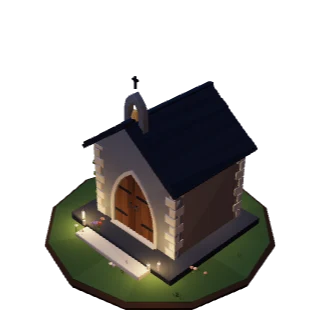
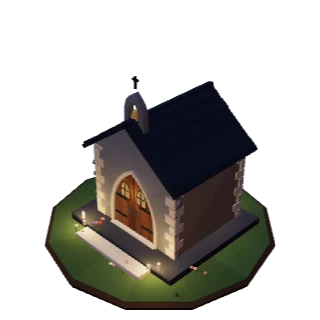
Santuario con le vetrate; cripte a due facce dove aperte; anteprima della versione posata
- Santuario: una vetrata a sesto acuto nella parte alta di ogni battente,
  accesa con le luci (di sera si vede la luce dentro), con i piombi.
- Cripte: le superfici aperte (spicchi del tetto ottagonale, vasca della
  cripta dei fantasmi rotta, anelli e tori a metà) hanno anche il rovescio,
  come faceva il laboratorio: i materiali del gioco hanno una faccia sola.
- Anteprime per versione: bake-previews accetta «<id>-v<N>» e, a giro
  completo, cuoce le versioni degli oggetti a più versioni; la scheda di
  un oggetto posato mostra la sua versione.

Claude-Session: https://claude.ai/code/session_01U6u5RojYrwYjZd8sSRU7em

Changed region(s): [[0.3438, 0.5312, 0.4688, 0.7188], [0.4688, 0.7188, 0.5, 0.75]]

diff --git a/Production/src/render/lowpoly/extras.ts b/Production/src/render/lowpoly/extras.ts
@@ -151,7 +151,7 @@ export function candleTreeLP(v: PVis): LPModel {
  * (largo `w`, alto `h`): assi verticali di tono diverso con le fughe scure tra l'una e
  * l'altra, cerniere in ferro solo sui bordi esterni e due anelli al centro.
  */
-function shrineDoor(lp: LP, z: number, w: number, h: number) {
+function shrineDoor(lp: LP, z: number, w: number, h: number, lit: boolean) {
   const hw = w / 2, R = w, spring = h - Math.sqrt(R * R - (R - hw) * (R - hw));
   const top = (x: number) => spring + Math.sqrt(Math.max(0, R * R - (Math.abs(x) - (hw - R)) ** 2));
   // fondo scuro (le fughe) e le assi sopra, rifilate sotto la curva dell'arco
@@ -168,16 +168,26 @@ function shrineDoor(lp: LP, z: number, w: number, h: number) {
   // cerniere: bandelle dai bordi verso il centro, con la punta arrotondata
   // mezza larghezza dell'arco all'altezza y (sopra l'imposta la curva stringe)
   const half = (y: number) => (y <= spring ? hw : hw - R + Math.sqrt(Math.max(0, R * R - (y - spring) ** 2)));
-  for (const y of [0.28, 0.8]) for (const sx of [-1, 1]) {
+  for (const y of [0.24, 0.62]) for (const sx of [-1, 1]) {
     const edge = Math.min(half(y), half(y + 0.045)) - 0.025, len = 0.28;
     lp.box(sx * (edge - len / 2), y, z + 0.047, len, 0.045, 0.012, LPC.iron, { jitter: 0, ao: 0 });
     lp.blob(sx * (edge - len), y + 0.022, z + 0.05, 0.03, 0.03, 0.012, LPC.iron, { jitter: 0 });
   }
   // due anelli ai lati della fuga centrale, con la piastrina
   for (const sx of [-1, 1]) {
-    lp.blob(sx * 0.07, 0.62, z + 0.05, 0.025, 0.025, 0.01, LPC.iron, { jitter: 0 });
-    lp.add(new THREE.TorusGeometry(0.045, 0.009, 3, 8).translate(sx * 0.07, 0.575, z + 0.058), LPC.ironLight, { jitter: 0 });
+    lp.blob(sx * 0.07, 0.5, z + 0.05, 0.025, 0.025, 0.01, LPC.iron, { jitter: 0 });
+    lp.add(new THREE.TorusGeometry(0.045, 0.009, 3, 8).translate(sx * 0.07, 0.455, z + 0.058), LPC.ironLight, { jitter: 0 });
   }
+  // una vetrata a sesto acuto nella parte alta di ogni battente: di sera si vede la luce delle candele
+  const gw = 0.2, gh = 0.3, g0 = 0.7;
+  for (const sx of [-1, 1]) {
+    const x = sx * 0.19;
+    lp.push([x, 0, z + 0.046]).plate(gothicArchShape(gw + 0.06, gh + 0.05, 4, g0 - 0.03), 0.008, '#3a2a20', { ao: 0 }).pop();
+    lp.push([x, 0, z + 0.054]).plate(gothicArchShape(gw, gh, 4, g0), 0.006, lit ? '#f0b866' : '#3b3631', { bucket: lit ? 'glow' : 'solid', ao: 0, vary: 0.06 }).pop();
+    lp.box(x, g0, z + 0.062, 0.016, gh * 0.92, 0.008, LPC.iron, { jitter: 0, ao: 0 });
+    lp.box(x, g0 + gh * 0.45, z + 0.062, gw, 0.016, 0.008, LPC.iron, { jitter: 0, ao: 0 });
+  }
+  if (lit) lp.light(0, g0 + gh * 0.4, z + 0.2, '#f0b866', 0.25, 2, 0.3, 0.4);
   // soglia in pietra
   lp.box(0, 0, z + 0.06, w + 0.08, 0.035, 0.14, LPC.stoneLight, { bevel: 0.01 });
 }
@@ -203,7 +213,7 @@ export function shrineLP(v: PVis): LPModel {
   front.holes.push(new THREE.Path(hole.getPoints().reverse()));
   lp.push([0, 0, D / 2 - 0.08]).extrude(front, 0.16, LPC.stone, { bevel: 0.012, vary: 0.05, ...o }).pop();
   lp.push([0, 0, D / 2 + 0.005]).plate((() => { const f = gothicArchShape(1.12, 1.33, 5); f.holes.push(new THREE.Path(gothicArchShape(1.0, 1.25, 5).getPoints().reverse())); return f; })(), 0.03, LPC.stoneLight, { ao: 0 }).pop();
-  shrineDoor(lp, D / 2 - 0.08 + 0.03, 1.0, 1.25);
+  shrineDoor(lp, D / 2 - 0.08 + 0.03, 1.0, 1.25, lit);
   // interno: altare, icona illuminata, candele
   lp.box(0, 0, -0.35, 0.8, 0.5, 0.35, LPC.marble, { bevel: 0.015 });
   lp.box(0, 0.5, -0.35, 0.86, 0.04, 0.4, LPC.stoneLight, { bevel: 0.008 });

diff --git a/Production/src/render/lowpoly/cryptKit.ts b/Production/src/render/lowpoly/cryptKit.ts
@@ -38,8 +38,31 @@ export const CP = {
 const _a = new THREE.Vector3(), _b = new THREE.Vector3(), _d = new THREE.Vector3();
 const UP = new THREE.Vector3(0, 1, 0);
 
-/** Aggiunge una geometria ruotata (X, poi Y, poi Z) e portata in `p`. */
-export function put(lp: LP, geo: THREE.BufferGeometry, color: string, p: P3 = [0, 0, 0], rot: P3 = [0, 0, 0], o: LPOpts = {}) {
+/**
+ * Superficie aperta (spicchi di cono, tornito tagliato) vista da entrambi i lati: i
+ * materiali del gioco disegnano una faccia sola, quindi si aggiunge la copia con i
+ * triangoli rovesciati. Le forme chiuse non ne hanno bisogno.
+ */
+export function twoSided(geo: THREE.BufferGeometry): THREE.BufferGeometry {
+  const g = geo.index ? geo.toNonIndexed() : geo;
+  const p = g.getAttribute('position').array as Float32Array;
+  const out = new Float32Array(p.length * 2);
+  out.set(p);
+  for (let i = 0; i < p.length; i += 9) {
+    out.set(p.subarray(i, i + 3), p.length + i);
+    out.set(p.subarray(i + 6, i + 9), p.length + i + 3);
+    out.set(p.subarray(i + 3, i + 6), p.length + i + 6);
+  }
+  const both = new THREE.BufferGeometry();
+  both.setAttribute('position', new THREE.BufferAttribute(out, 3));
+  if (g !== geo) g.dispose();
+  geo.dispose();
+  return both;
+}
+
+/** Aggiunge una geometria ruotata (X, poi Y, poi Z) e portata in `p`; `open`: superficie aperta, a due facce. */
+export function put(lp: LP, geo: THREE.BufferGeometry, color: string, p: P3 = [0, 0, 0], rot: P3 = [0, 0, 0], o: LPOpts = {}, open = false) {
+  if (open) geo = twoSided(geo);
   if (rot[0]) geo.rotateX(rot[0]);
   if (rot[1]) geo.rotateY(rot[1]);
   if (rot[2]) geo.rotateZ(rot[2]);
@@ -80,15 +103,14 @@ export function prof(lp: LP, pts: Array<[number, number]>, depth: number, color:
 }
 
 export function torus(lp: LP, x: number, y: number, z: number, r: number, t: number, color: string, rot: P3 = [0, 0, 0], arc = Math.PI * 2, o: LPOpts = {}) {
-  return put(lp, new THREE.TorusGeometry(r, t, 3, r < 0.12 ? 8 : r < 0.35 ? 10 : 14, arc), color, [x, y, z], rot, o);
+  return put(lp, new THREE.TorusGeometry(r, t, 3, r < 0.12 ? 8 : r < 0.35 ? 10 : 14, arc), color, [x, y, z], rot, o, arc < Math.PI * 2);
 }
 
 /** Anello piatto a terra (o parte di anello): un piccolo tubo di sezione rettangolare. */
 export function groundRing(lp: LP, x: number, y: number, z: number, r: number, width: number, color: string, seg = 12, arc = Math.PI * 2, o: LPOpts = {}) {
   const r0 = Math.max(0.001, r - width / 2), r1 = r + width / 2, h = 0.012;
   const g = new THREE.LatheGeometry([[r0, 0], [r1, 0], [r1, h], [r0, h], [r0, 0]].map(([a, b]) => new THREE.Vector2(a, b)), seg, 0, arc);
-  g.translate(x, y, z);
-  return lp.add(g, color, { jitter: 0, ao: 0, ...o });
+  return put(lp, g, color, [x, y, z], [0, 0, 0], { jitter: 0, ao: 0, ...o }, arc < Math.PI * 2);
 }
 
 /** Stoffa appesa o distesa: tre strisce sottili sfalsate, perché si veda piegata. */

diff --git a/Production/src/render/lowpoly/cryptYards.ts b/Production/src/render/lowpoly/cryptYards.ts
@@ -102,7 +102,7 @@ function ghostYard(c: CryptCtx) {
   const { lp, v } = c;
   const x = -0.56, z = 1.16;
   const arc = v.broken ? Math.PI * 1.75 : Math.PI * 2;
-  put(lp, new THREE.LatheGeometry([[0, 0.015], [0.54, 0.015], [0.64, 0.07], [0.66, 0.19], [0.57, 0.22], [0.53, 0.11], [0, 0.11]].map(([a, b]) => new THREE.Vector2(a, b)), 16, 0, arc), '#a8b4a0', [x, 0.01, z], [0, 0, 0], { vary: 0.06, ao: 0.2 });
+  put(lp, new THREE.LatheGeometry([[0, 0.015], [0.54, 0.015], [0.64, 0.07], [0.66, 0.19], [0.57, 0.22], [0.53, 0.11], [0, 0.11]].map(([a, b]) => new THREE.Vector2(a, b)), 16, 0, arc), '#a8b4a0', [x, 0.01, z], [0, 0, 0], { vary: 0.06, ao: 0.2 }, v.broken);
   const pool = emit(c, v.broken ? '#4a554b' : '#719f96');
   lp.cyl(x, v.broken ? 0.06 : 0.13, z, 0.535, 0.535, 0.012, 16, pool.color, { ...pool.o, jitter: 0 });
   if (!v.broken) { const r = emit(c, '#a0c6b5'); groundRing(lp, x, 0.14, z, 0.24, 0.014, r.color, 12, Math.PI * 1.75, r.o); flame(c, x - 0.13, 0.26, z + 0.08, '#afd7c7', 0.026); }

diff --git a/Production/src/render/lowpoly/cryptBuildings.ts b/Production/src/render/lowpoly/cryptBuildings.ts
@@ -383,7 +383,7 @@ function supernatural(c: CryptCtx) {
     for (let i = 0; i < 8; i++) {
       if (v.broken && i < 2) continue;
       const a = (i / 8) * Math.PI * 2;
-      put(lp, new THREE.CylinderGeometry(0.15, 1.06, 0.83, 1, 1, true, a, Math.PI / 4), facets[i % 4], [0, 1.805, -0.35], [0, 0, 0], { vary: 0.03, jitter: 0.008 });
+      put(lp, new THREE.CylinderGeometry(0.15, 1.06, 0.83, 1, 1, true, a, Math.PI / 4), facets[i % 4], [0, 1.805, -0.35], [0, 0, 0], { vary: 0.03, jitter: 0.008 }, true);
       const p: P3 = [Math.sin(a) * 1.07, 1.39, -0.35 + Math.cos(a) * 1.07], q: P3 = [Math.sin(a + Math.PI / 4) * 1.07, 1.39, -0.35 + Math.cos(a + Math.PI / 4) * 1.07];
       beam(lp, p, q, 0.027, '#9a849e');
       beam(lp, [Math.sin(a) * 0.15, 2.22, -0.35 + Math.cos(a) * 0.15], p, 0.016, '#93809d');

diff --git a/Production/src/ui/screens.ts b/Production/src/ui/screens.ts
@@ -41,7 +41,8 @@ import { clearLang, currentLang, deviceLang, hasManualLang, languagePreference, 
  * altrimenti la miniatura disegnata al momento.
  */
 function itemImg(type: string, cls: 'lit' | 'lit-hero', variant = 0): HTMLElement {
-  const url = previewUrl(type);
+  // gli oggetti a più versioni (le cripte) hanno l'anteprima di ogni versione: «tipo-v2», «tipo-v3»
+  const url = (variant > 0 ? previewUrl(`${type}-v${variant + 1}`) : null) ?? previewUrl(type);
   return url
     ? h('img', { class: cls, src: url, alt: '', decoding: 'async' })
     : h('img', { src: placeableThumb(type, variant), alt: '' });
